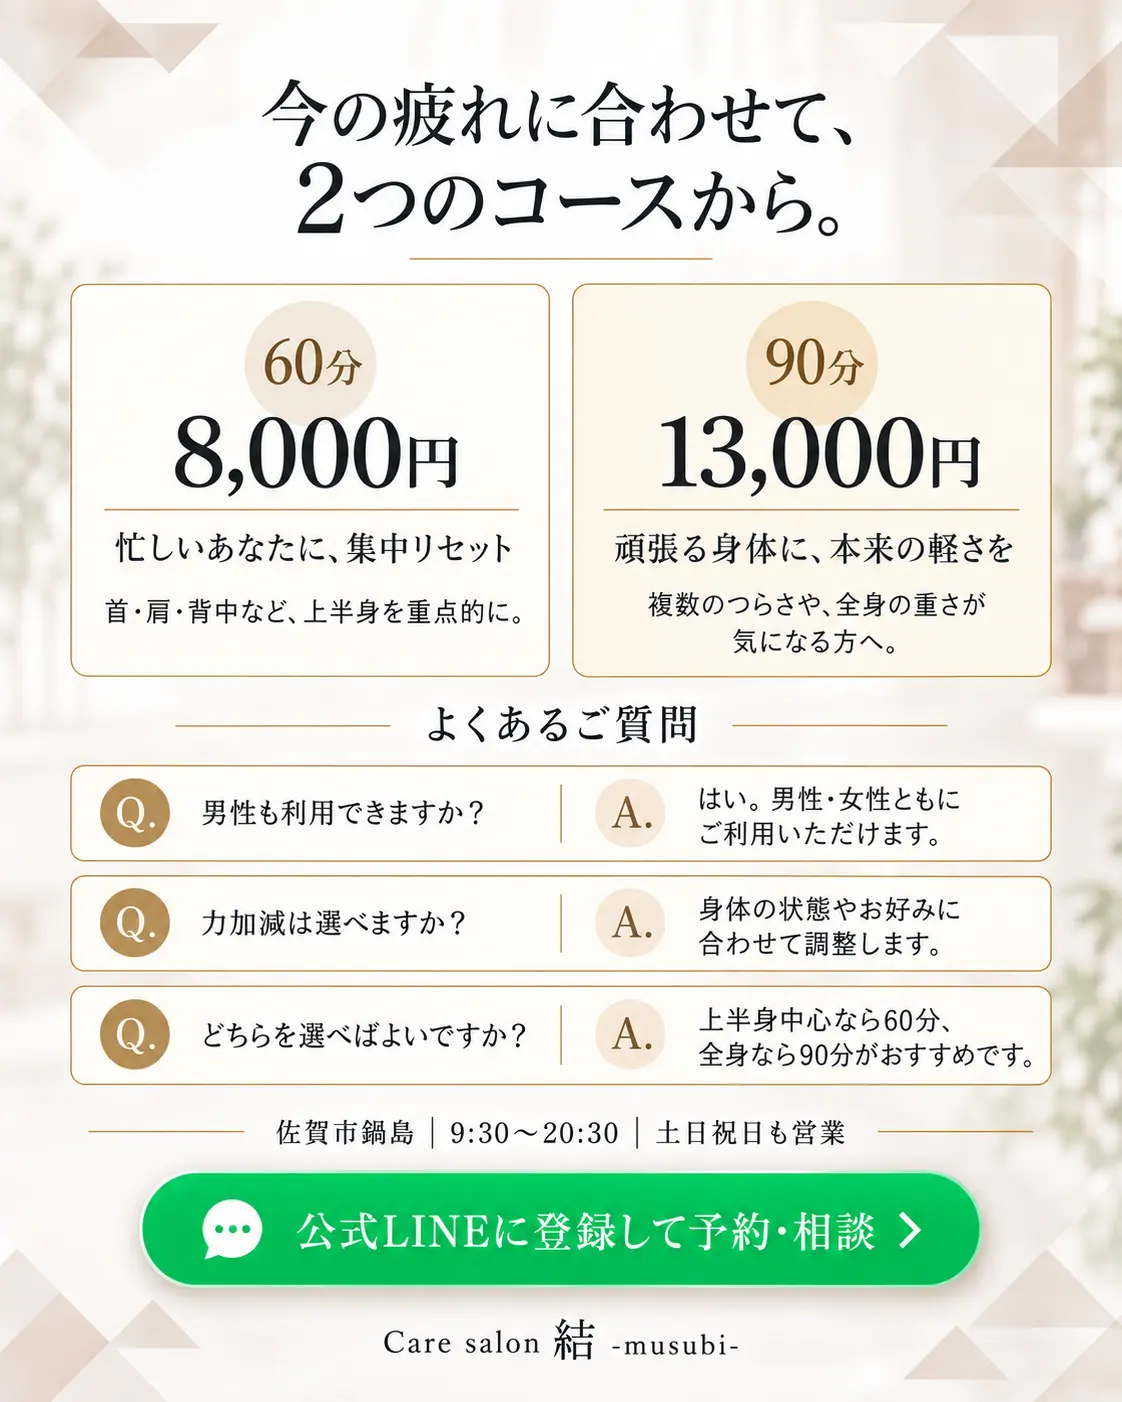
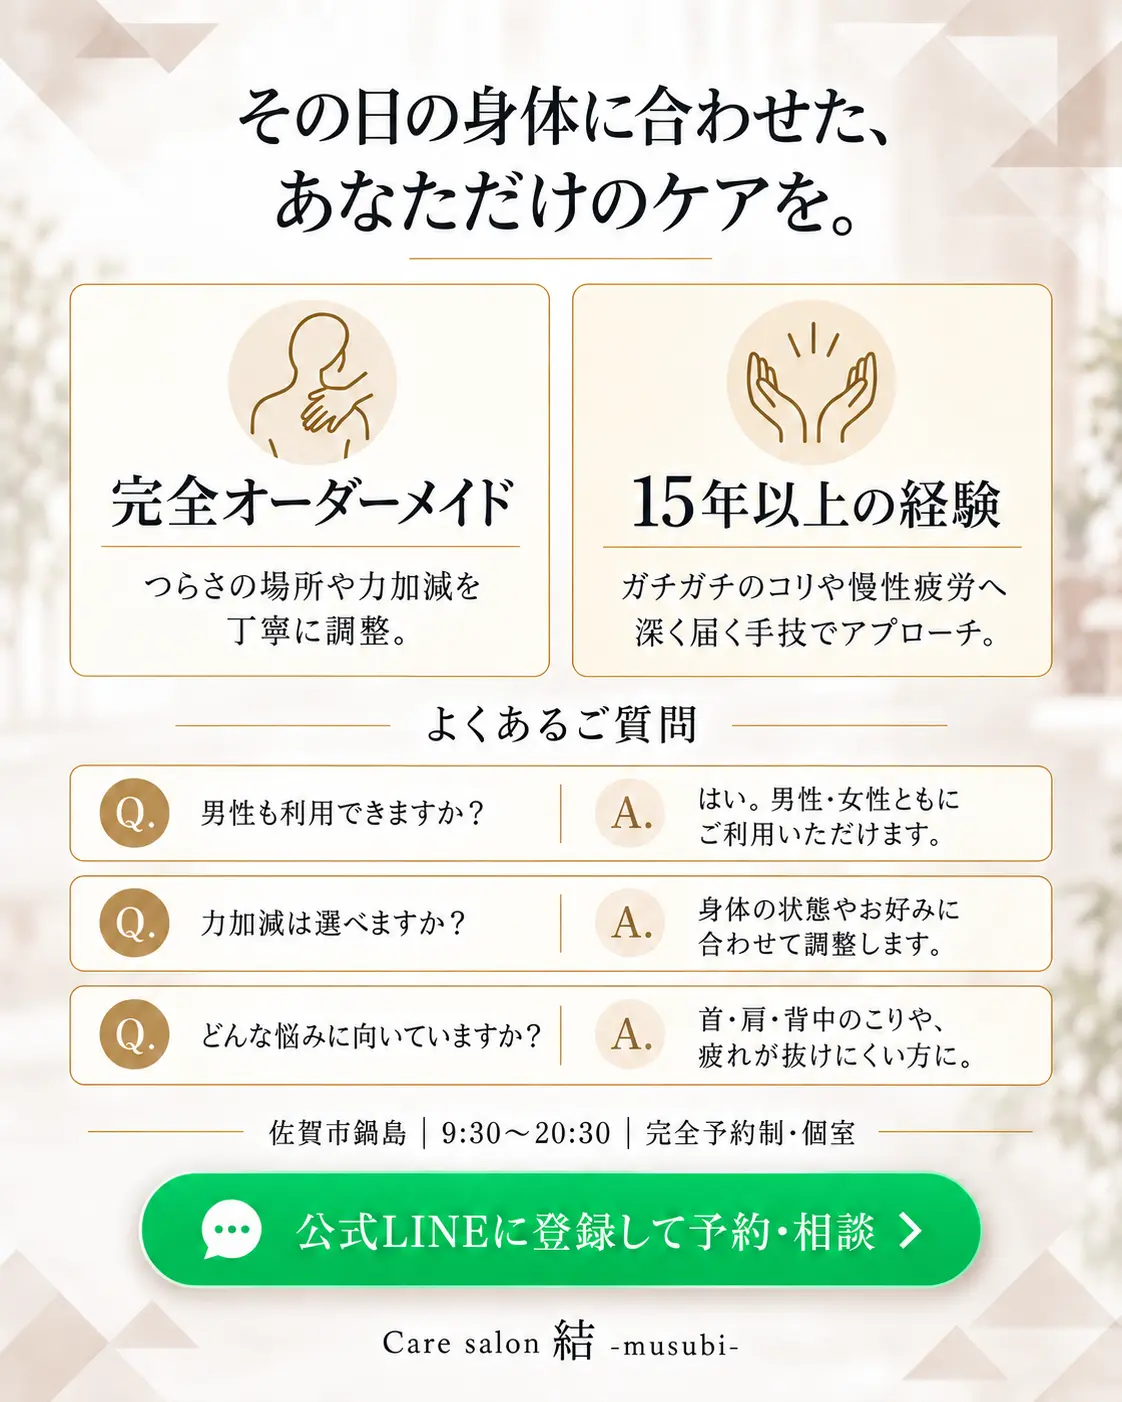
Replace pricing panel with value-focused LP panel

diff --git a/index.html b/index.html
@@ -72,7 +72,7 @@
           src="assets/LP_04.webp"
           width="1122"
           height="1402"
-          alt="60分・90分コースの料金、よくある質問、公式LINEでの予約案内"
+          alt="完全オーダーメイド施術、15年以上の経験、よくある質問、公式LINEでの予約案内"
           loading="lazy"
           decoding="async"
         />
